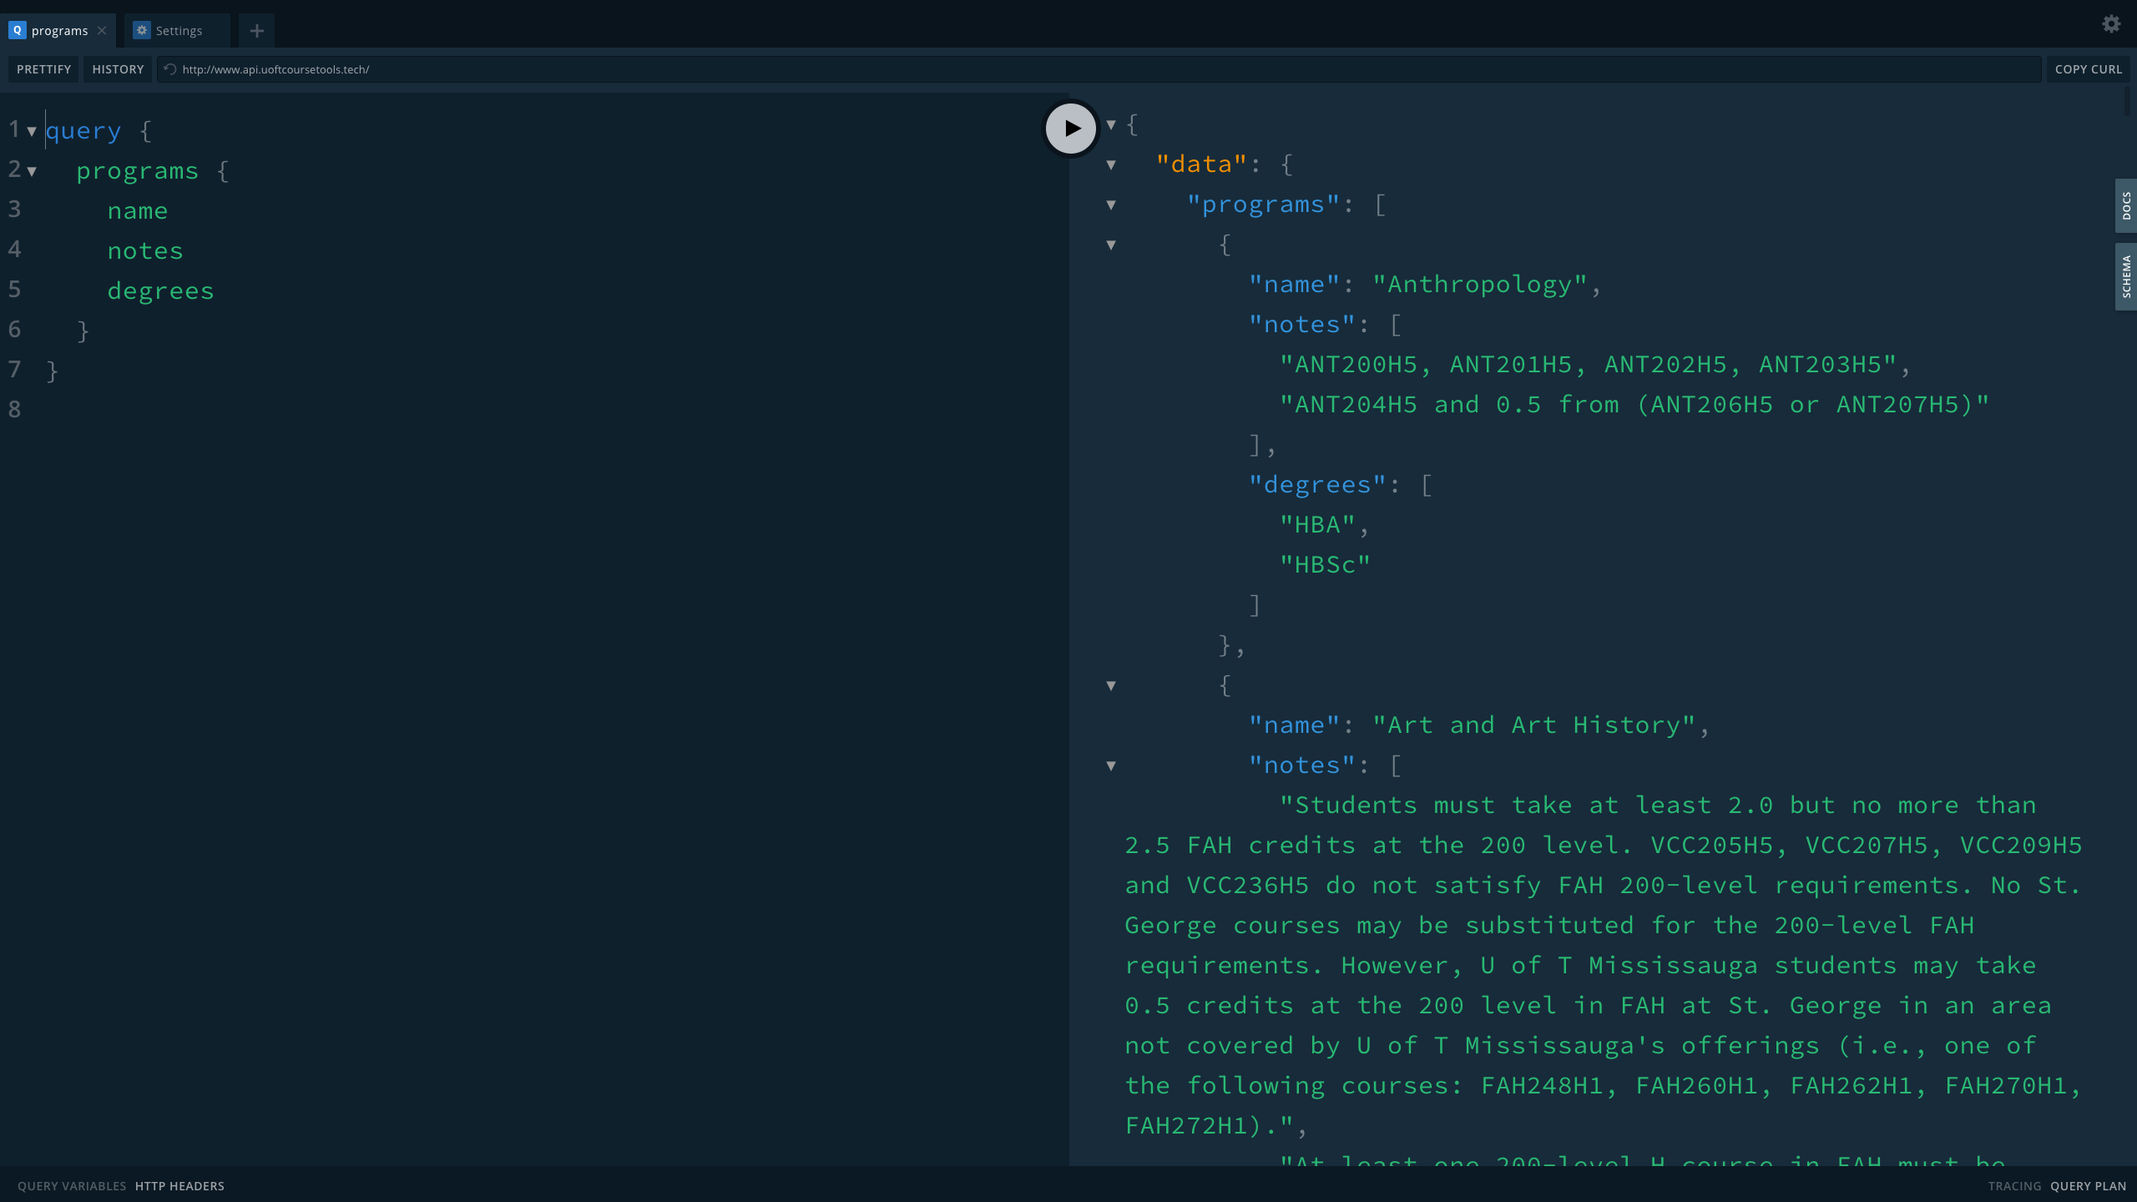
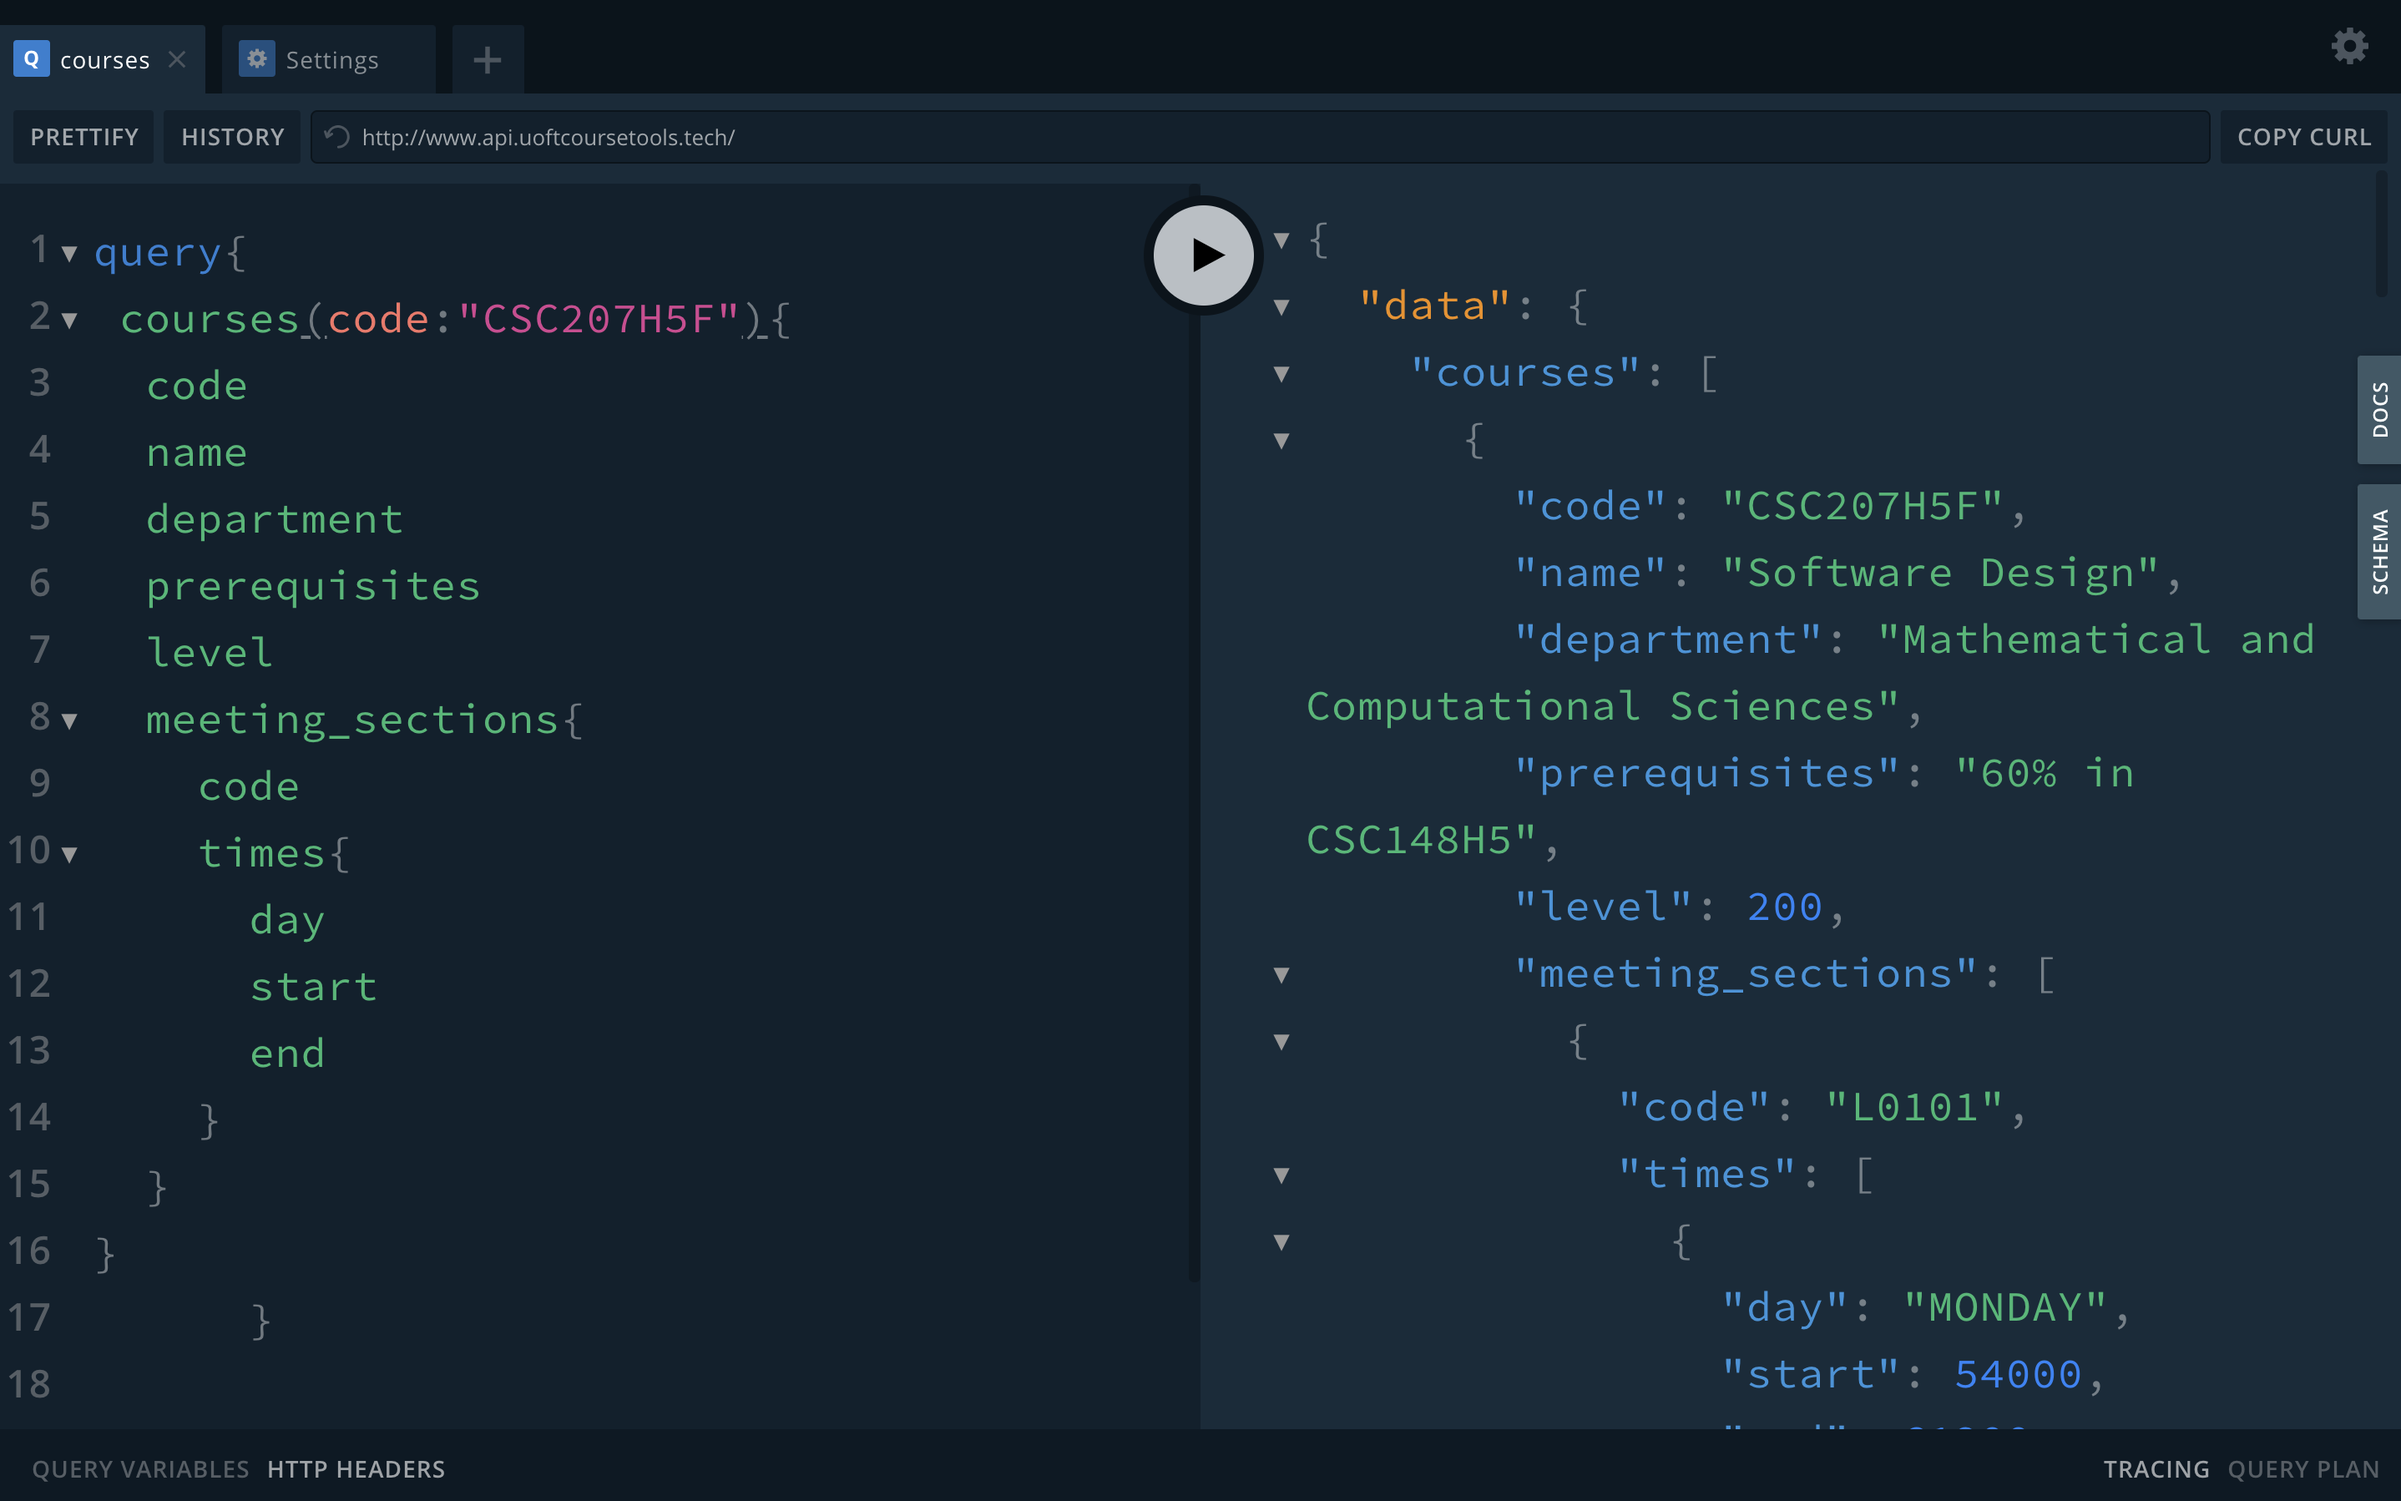
updated the changes into the website

diff --git a/packages/docs/course-api/README.md b/packages/docs/course-api/README.md
@@ -7,11 +7,15 @@ sidebar: auto
 ## API Overview
 GraphQL Playground is a graphical, interactive, in-browser GraphQL __IDE__, created by Prisma and based on GraphiQL.
 
-The way to use the playground is illustrated in the following images. Refer to [**Data Structures 1-6**](#_1-course) for the available data that the API can provide.
+The way to use the playground is illustrated in the following images. Refer to [**Data Structures 1-6**](#_1-course) for the available data that the API can provide. 
+
+*Note:* 
+Courses has an extra required argument called **"code"** to filter per course. if an empty string is passed as an argument into code, every course will be returned.
 ![Example 1](./playgroundEx1.png)
 ![Example 2](./playgroundEx2.png)
+![Example 3](./playgroundEx3.png)
 
-Refer to [**Data Structures 1-6**](#_1-course) for the available data that the API can provide.
+Refer to [**Data Structures 1-6**](#_1-course) for the available data that the API can provide. 
 
 If you are curious on how the API was built and want to know more about GraphQL  , [click here](https://www.howtographql.com/basics/0-introduction/).
 ## High-level overview
@@ -79,7 +83,7 @@ type Course
         campus: String, 
         term: String,
         breadths: [Int],
-        meetingSections: [MeetingSection]
+        meeting_sections: [MeetingSection]
 }
 ```
 
@@ -131,15 +135,18 @@ type Program
          code: String,
          type: String,
          notes: [String]!,
-         courses: [YearCourses]
+         courses: YearCourses
 }
 ```
 ### 6. YearCourses
 ```js
 type YearCourses
 { 
-         year: String,
-         courses: [String]
+         year1: [String],
+         year2: [String],
+         year3: [String],
+         year4: [String]
+         
 }
 ```
 ### 7. Course Evaluation
